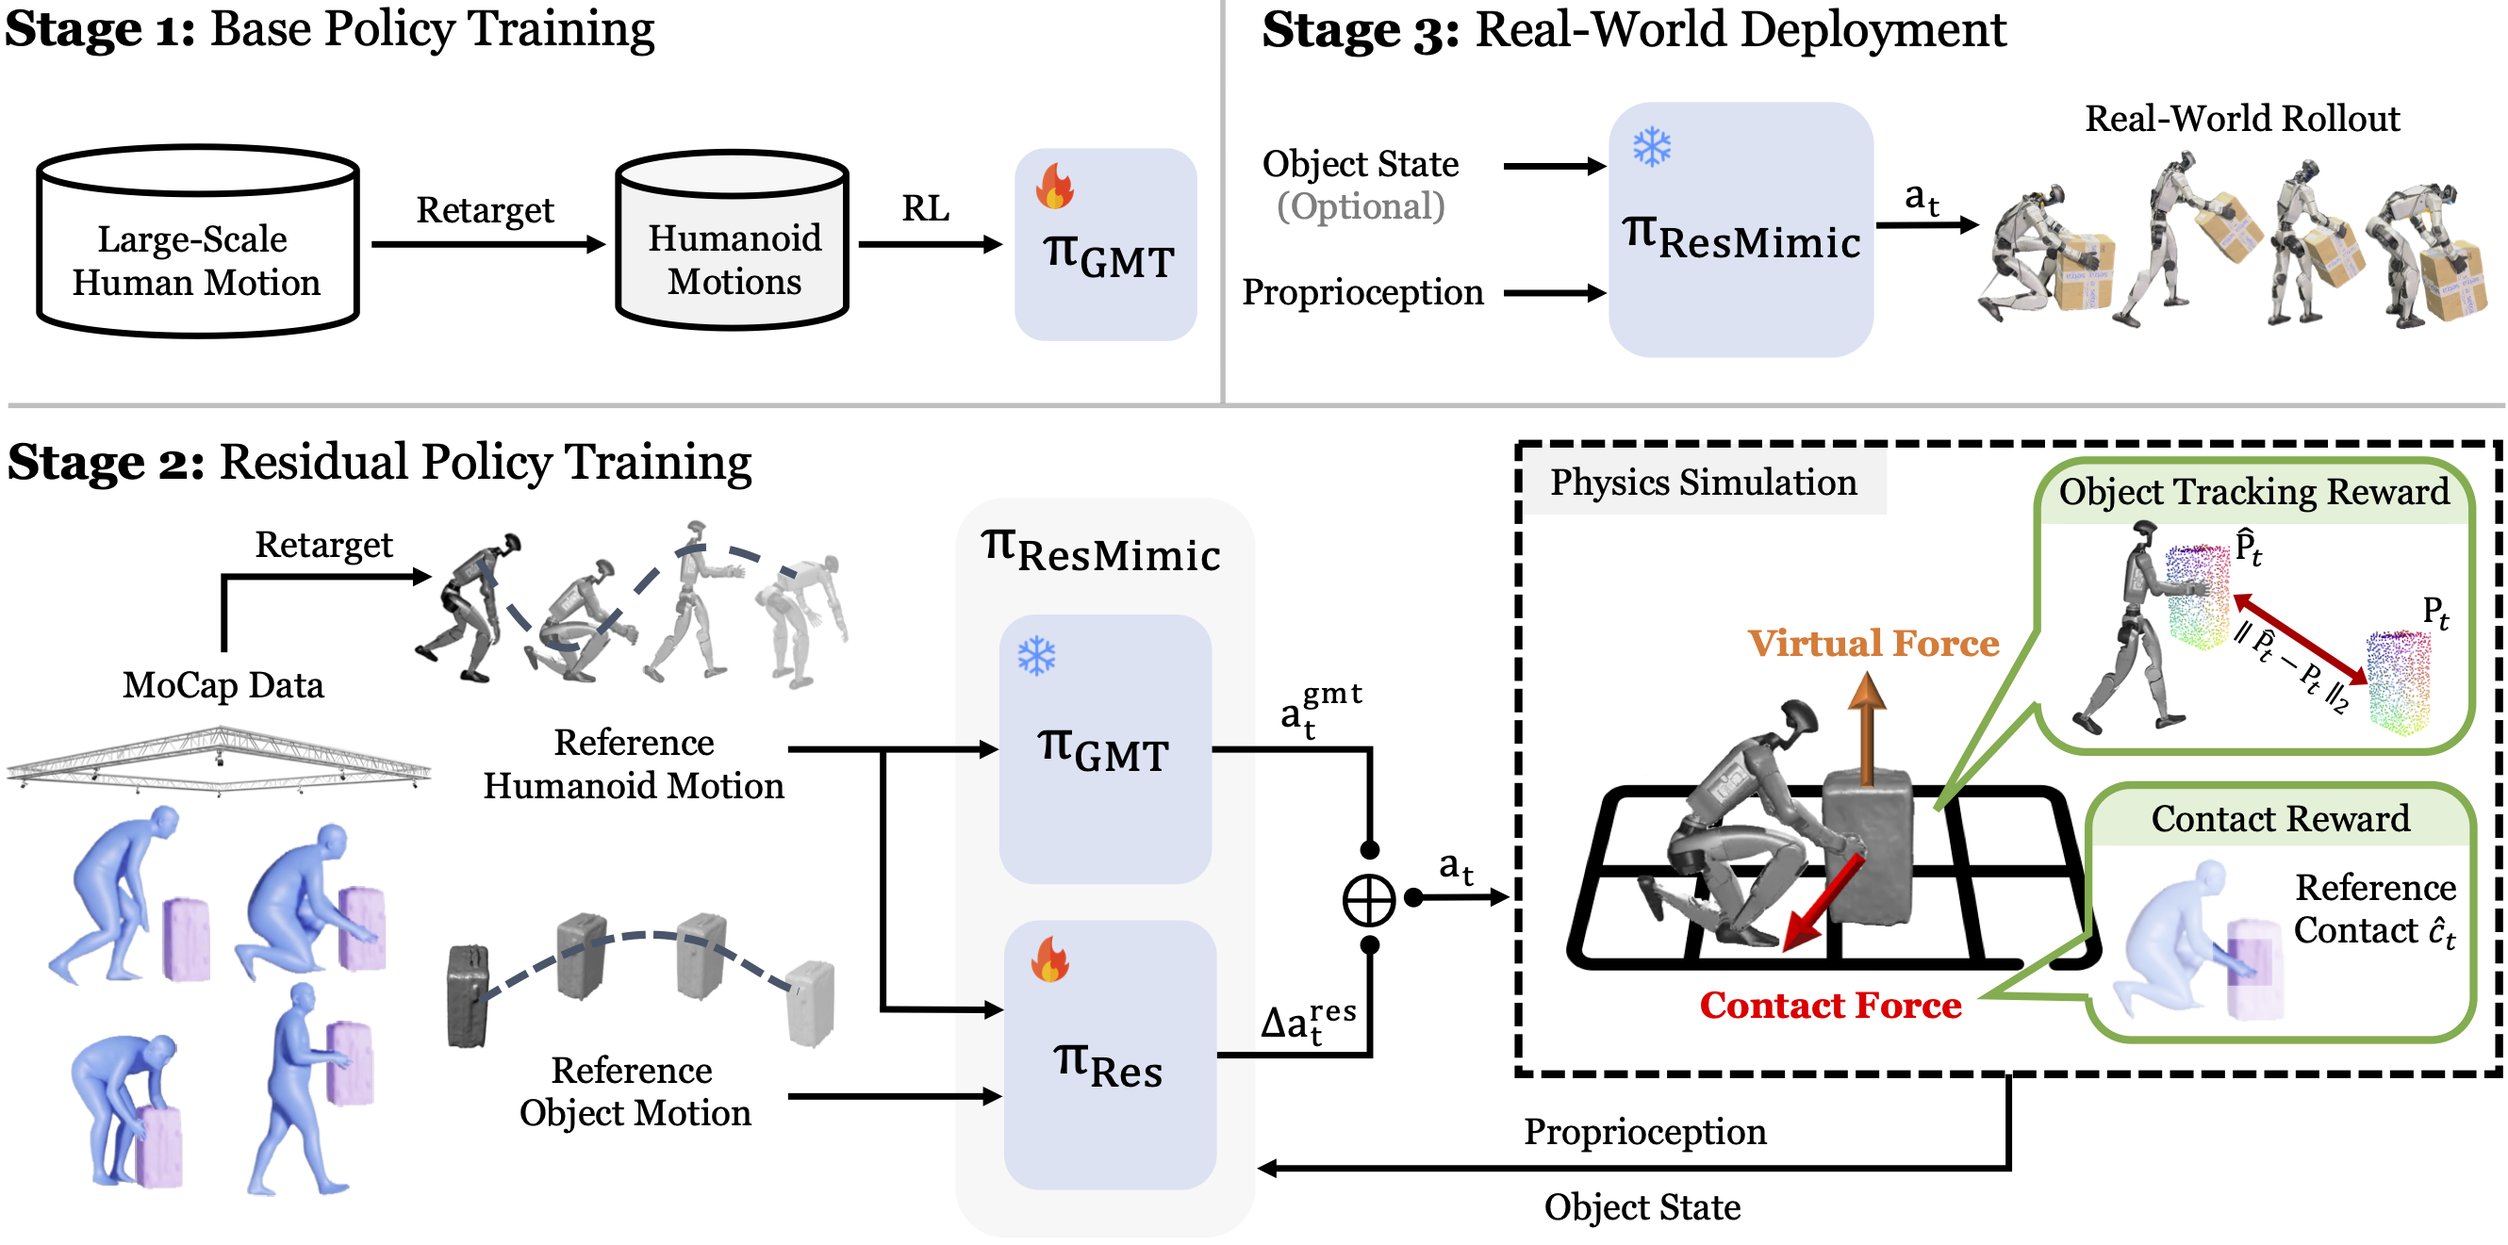
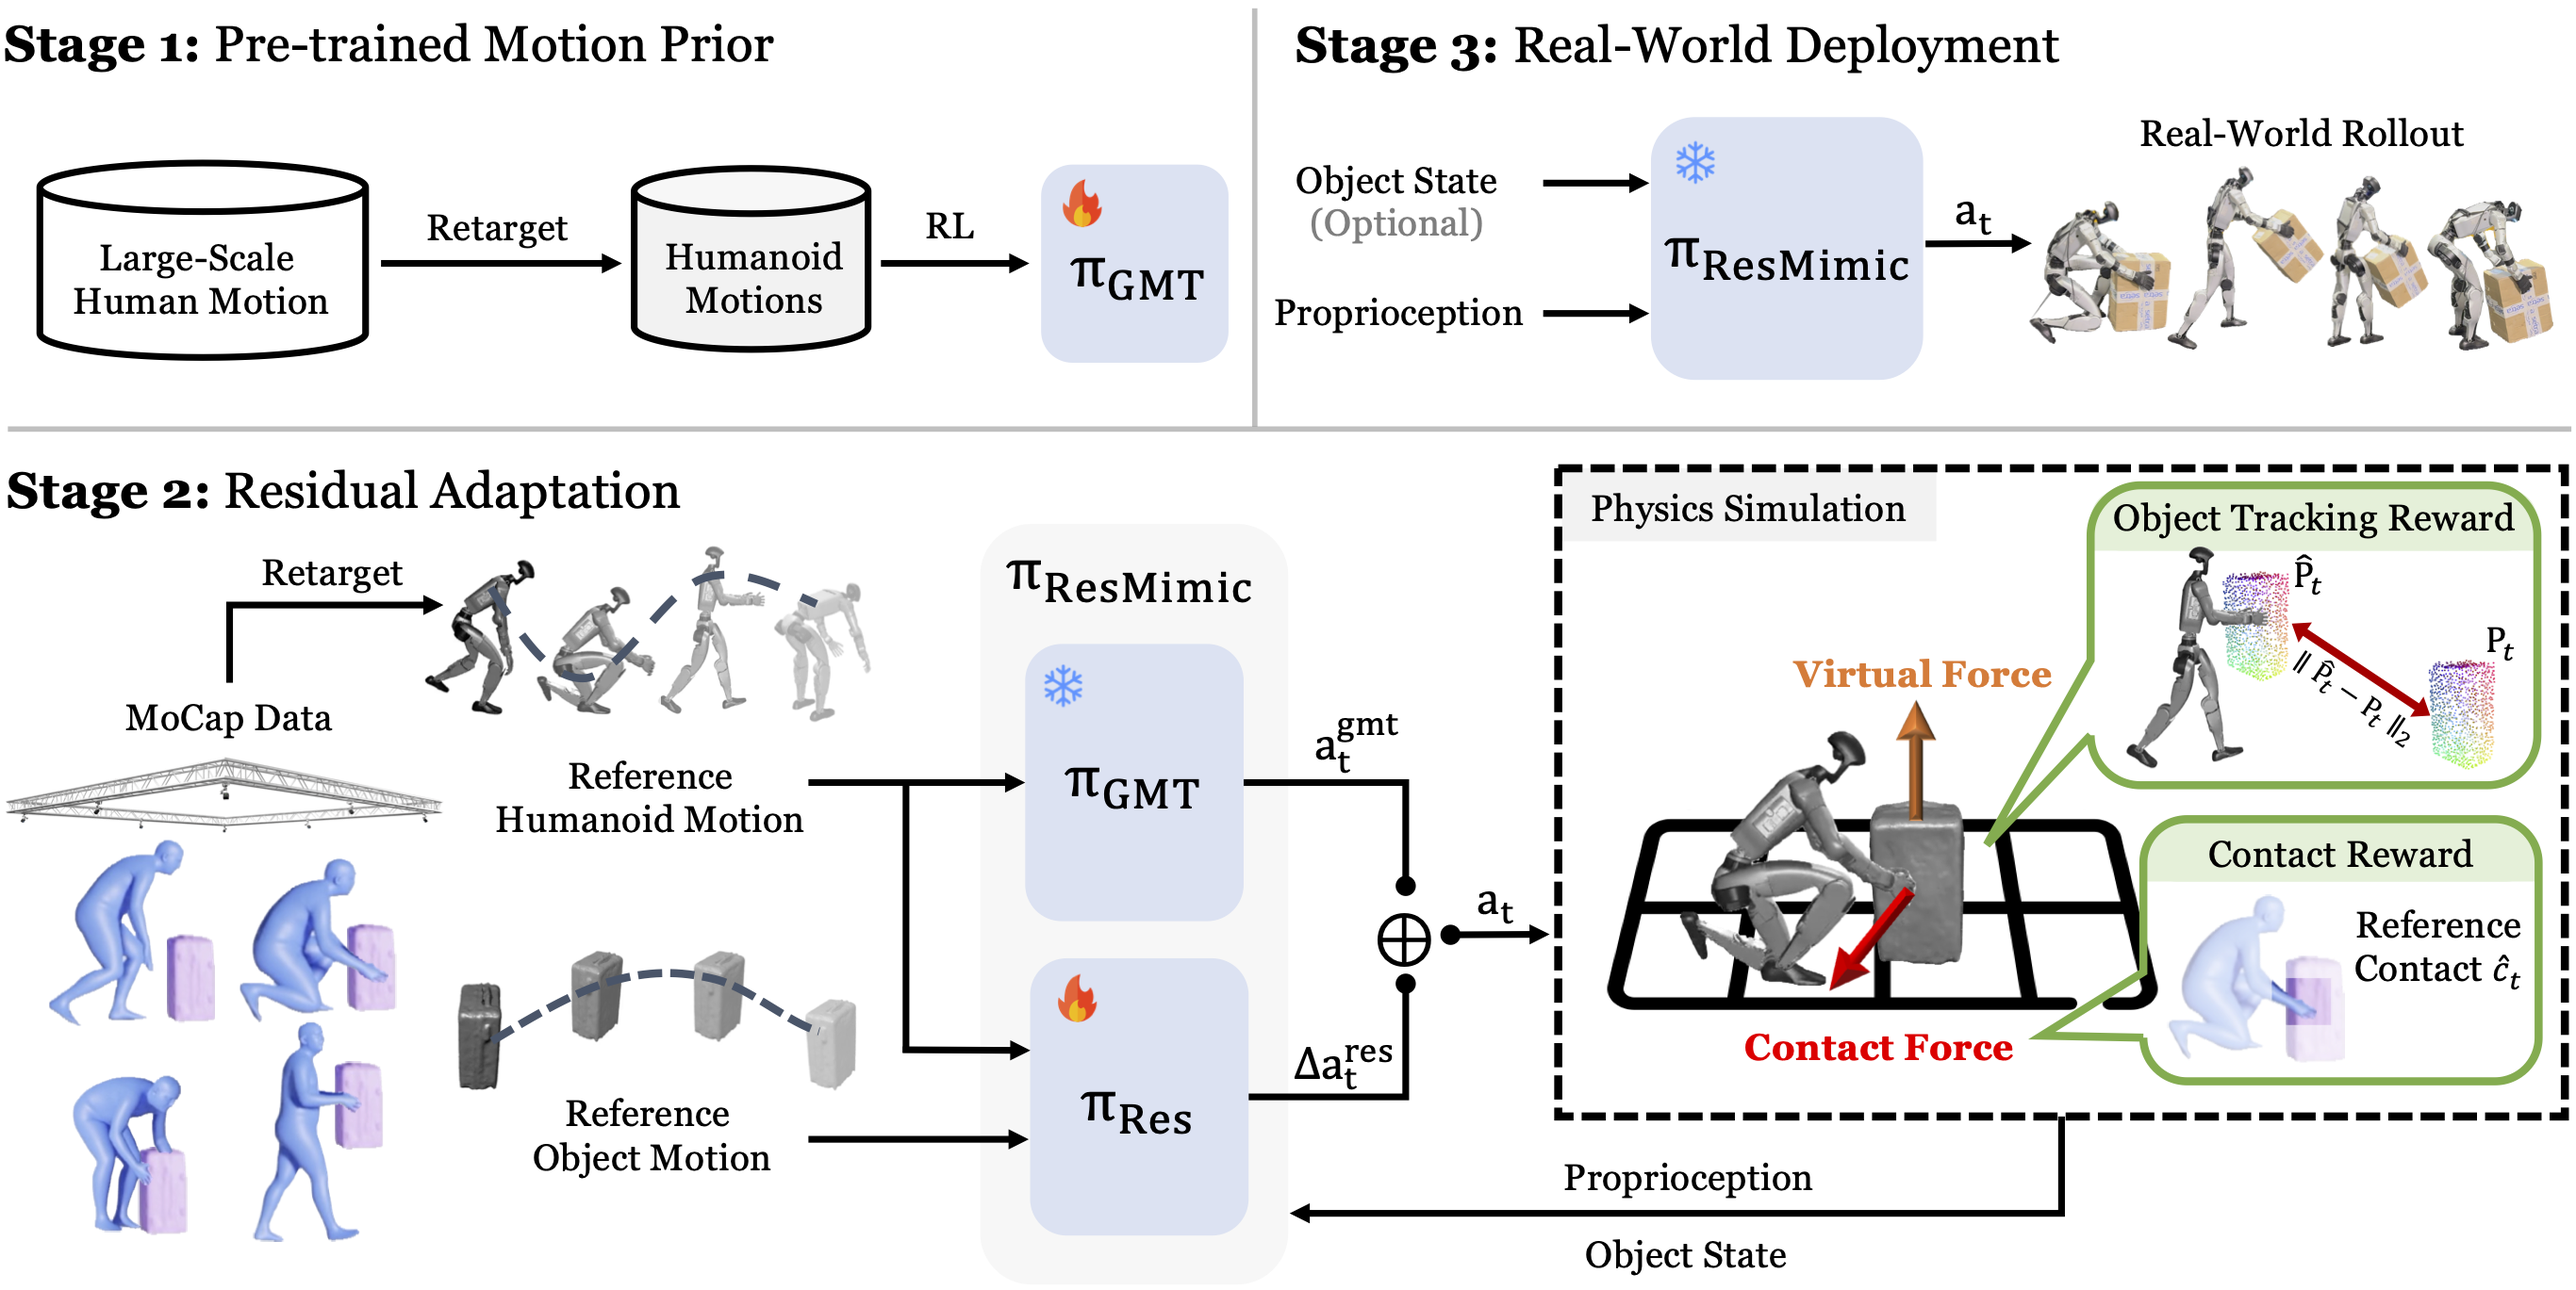
update

diff --git a/index.html b/index.html
@@ -112,11 +112,11 @@
                 </span>
                 <!-- &nbsp;&nbsp;&nbsp;&nbsp; -->
                 <span class="link-block">
-                  <a target="_blank" href="" class="external-link button is-normal is-rounded is-dark" disabled>
+                  <a target="_blank" href="https://github.com/amazon-far/ResMimic" class="external-link button is-normal is-rounded is-dark" disabled>
                     <span class="icon">
                       <i class="fab fa-github"></i>
                     </span>
-                    <span>Code (Coming Soon)</span>
+                    <span>Code</span>
                   </a>
                 </span>
         </div>
@@ -138,7 +138,7 @@
         </div>
         <br>
         <h2 class="subtitle has-text-centered">
-          We present ResMimic, a two-stage residual framework that unleashes the power of pre-trained general motion tracking policy. 
+          We present <b>ResMimic</b>, a two-stage residual framework that unleashes the power of pre-trained general motion tracking policy. 
           It enables expressive whole-body loco-manipulation with payloads up to 5.5kg without task-specific design, generalizes across poses, and exhibits reactive behavior.
         </h2>
       </div>
@@ -152,14 +152,11 @@
         <div class="column is-four-fifths">
           <h2 class="title is-3">Abstract</h2>
           <div class="content has-text-justified">
-            Humanoid whole-body loco-manipulation promises transformative capabilities for daily service and warehouse tasks. 
-            While recent advances in general motion tracking (GMT) have enabled humanoids to reproduce diverse human motions, these policies lack the precision and object awareness required for loco-manipulation. 
-            To this end, we introduce <b>ResMimic</b>, a two-stage residual learning framework for precise and expressive humanoid control from human motion data. 
-            First, a GMT policy, trained on large-scale human-only motion, serves as a task-agnostic base for generating human-like whole-body movements. 
-            An efficient but precise residual policy is then learned to refine the GMT outputs to improve locomotion and incorporate object interaction. 
-            To further facilitate efficient training, we design (i) a point-cloud-based object tracking reward for smoother optimization, (ii) a contact reward that encourages accurate humanoid body-object interactions, and (iii) a curriculum-based virtual object controller to stabilize early training. 
-            We evaluate ResMimic in both simulation and on a real Unitree G1 humanoid. 
-            Results show substantial gains in task success, training efficiency, and robustness over strong baselines.
+            Humanoid whole-body loco-manipulation holds transformative potential in daily service and industrial tasks. While recent advances in general motion tracking (GMT) enable humanoids to reproduce diverse human motions, such policies lack the precision and explicit modeling of object interaction necessary for loco-manipulation.
+            We present <b>ResMimic</b>, a two-stage pretrain–post-train residual learning framework for precise humanoid loco-manipulation from human motion data. In the first stage, a GMT policy is pre-trained on large-scale human-only motion data to serve as a task-agnostic whole-body motion prior. 
+            In the second stage, a sample-efficient residual policy is post-trained to inject object-conditioned corrections, enabling accurate object interaction without re-learning general motion skills.
+            Our framework employs a unified reward formulation shared across tasks, eliminating per-task reward engineering. To ensure stable and efficient training, we introduce a dense point-cloud object tracking reward, a contact tracking reward, and a virtual force curriculum.
+            We validate <b>ResMimic</b> in simulation and on a real Unitree G1 humanoid. Results demonstrate substantial improvements in task success rate, robustness, and data efficiency over strong baselines.
             </div>
         </div>
     </div>
@@ -445,7 +442,7 @@
   <section class="section" id="BibTeX">
     <div class="container is-max-desktop content">
       <h2 class="title">BibTeX</h2>
-      <pre><code>@misc{zhao2025resmimicgeneralmotiontracking,
+      <pre><code>@misc{zhao2025resmimic,
         title={ResMimic: From General Motion Tracking to Humanoid Whole-body Loco-Manipulation via Residual Learning}, 
         author={Siheng Zhao and Yanjie Ze and Yue Wang and C. Karen Liu and Pieter Abbeel and Guanya Shi and Rocky Duan},
         year={2025},
